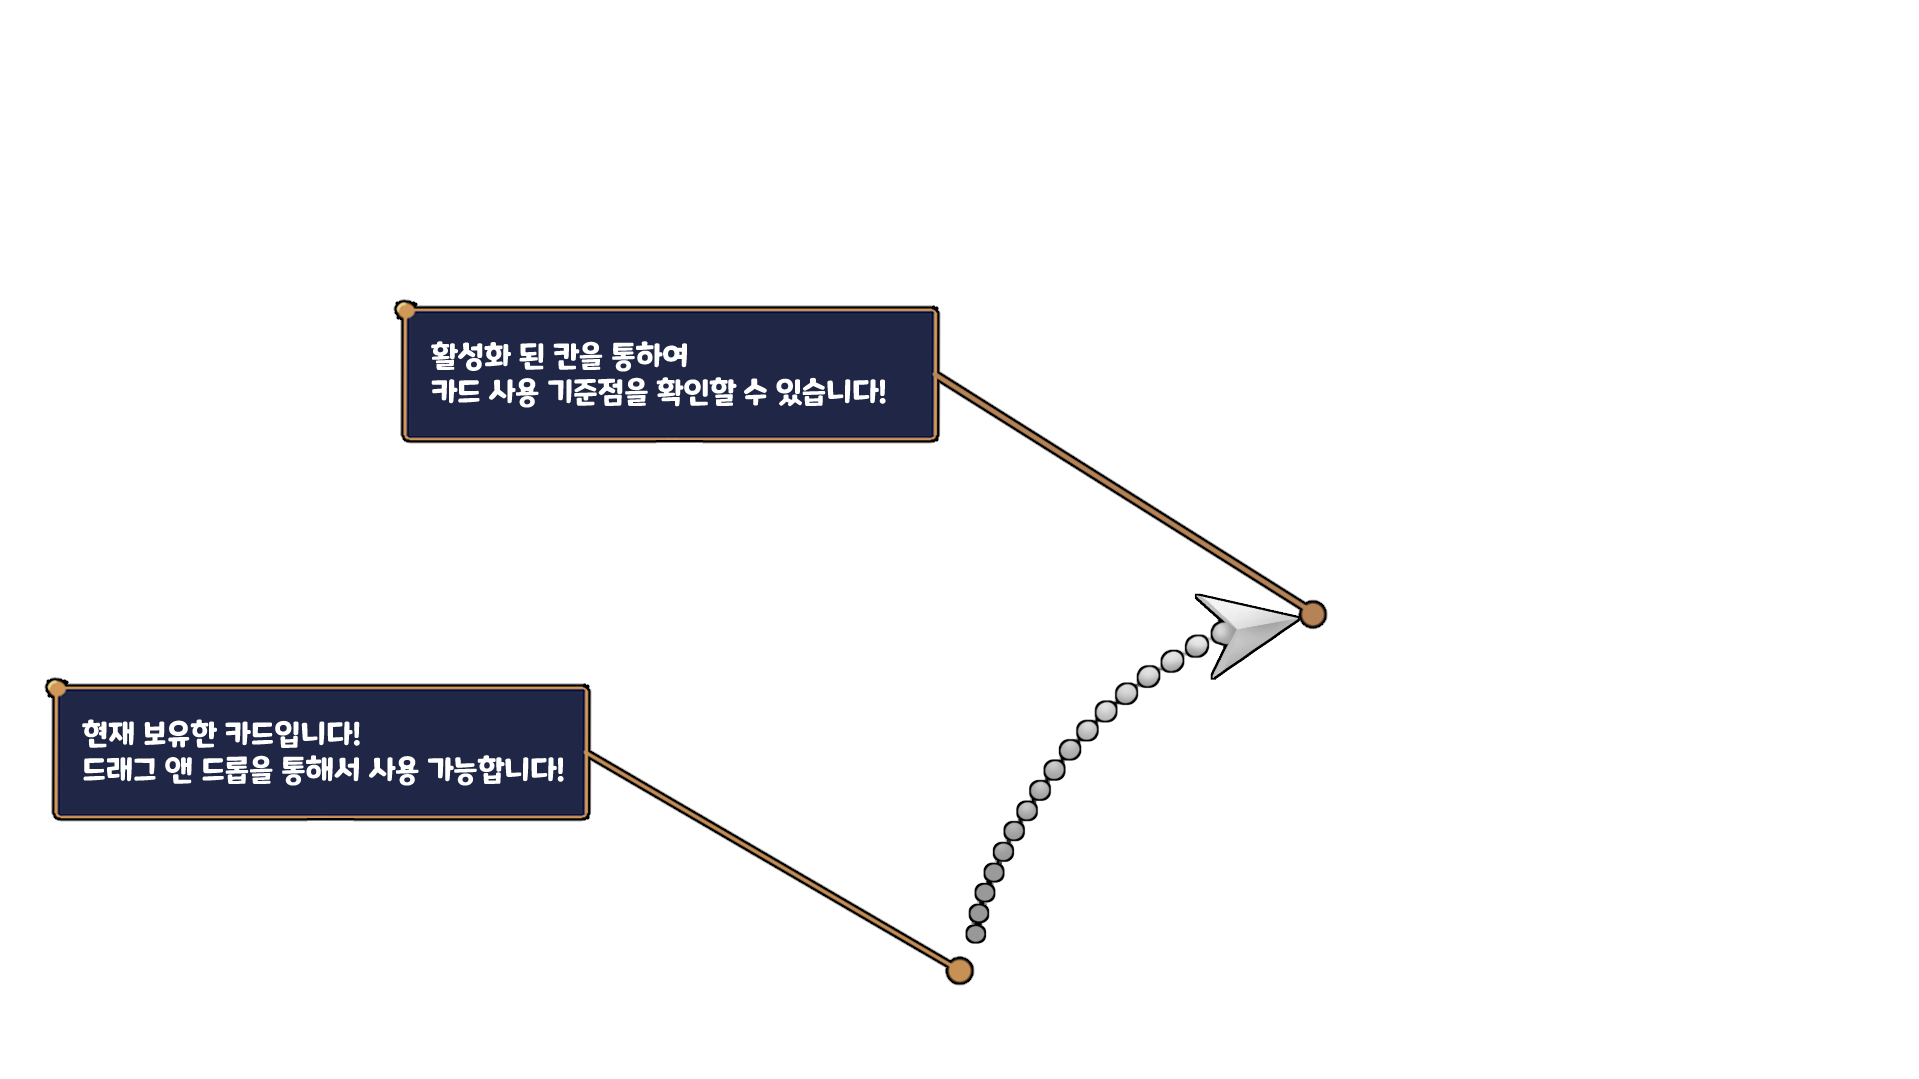
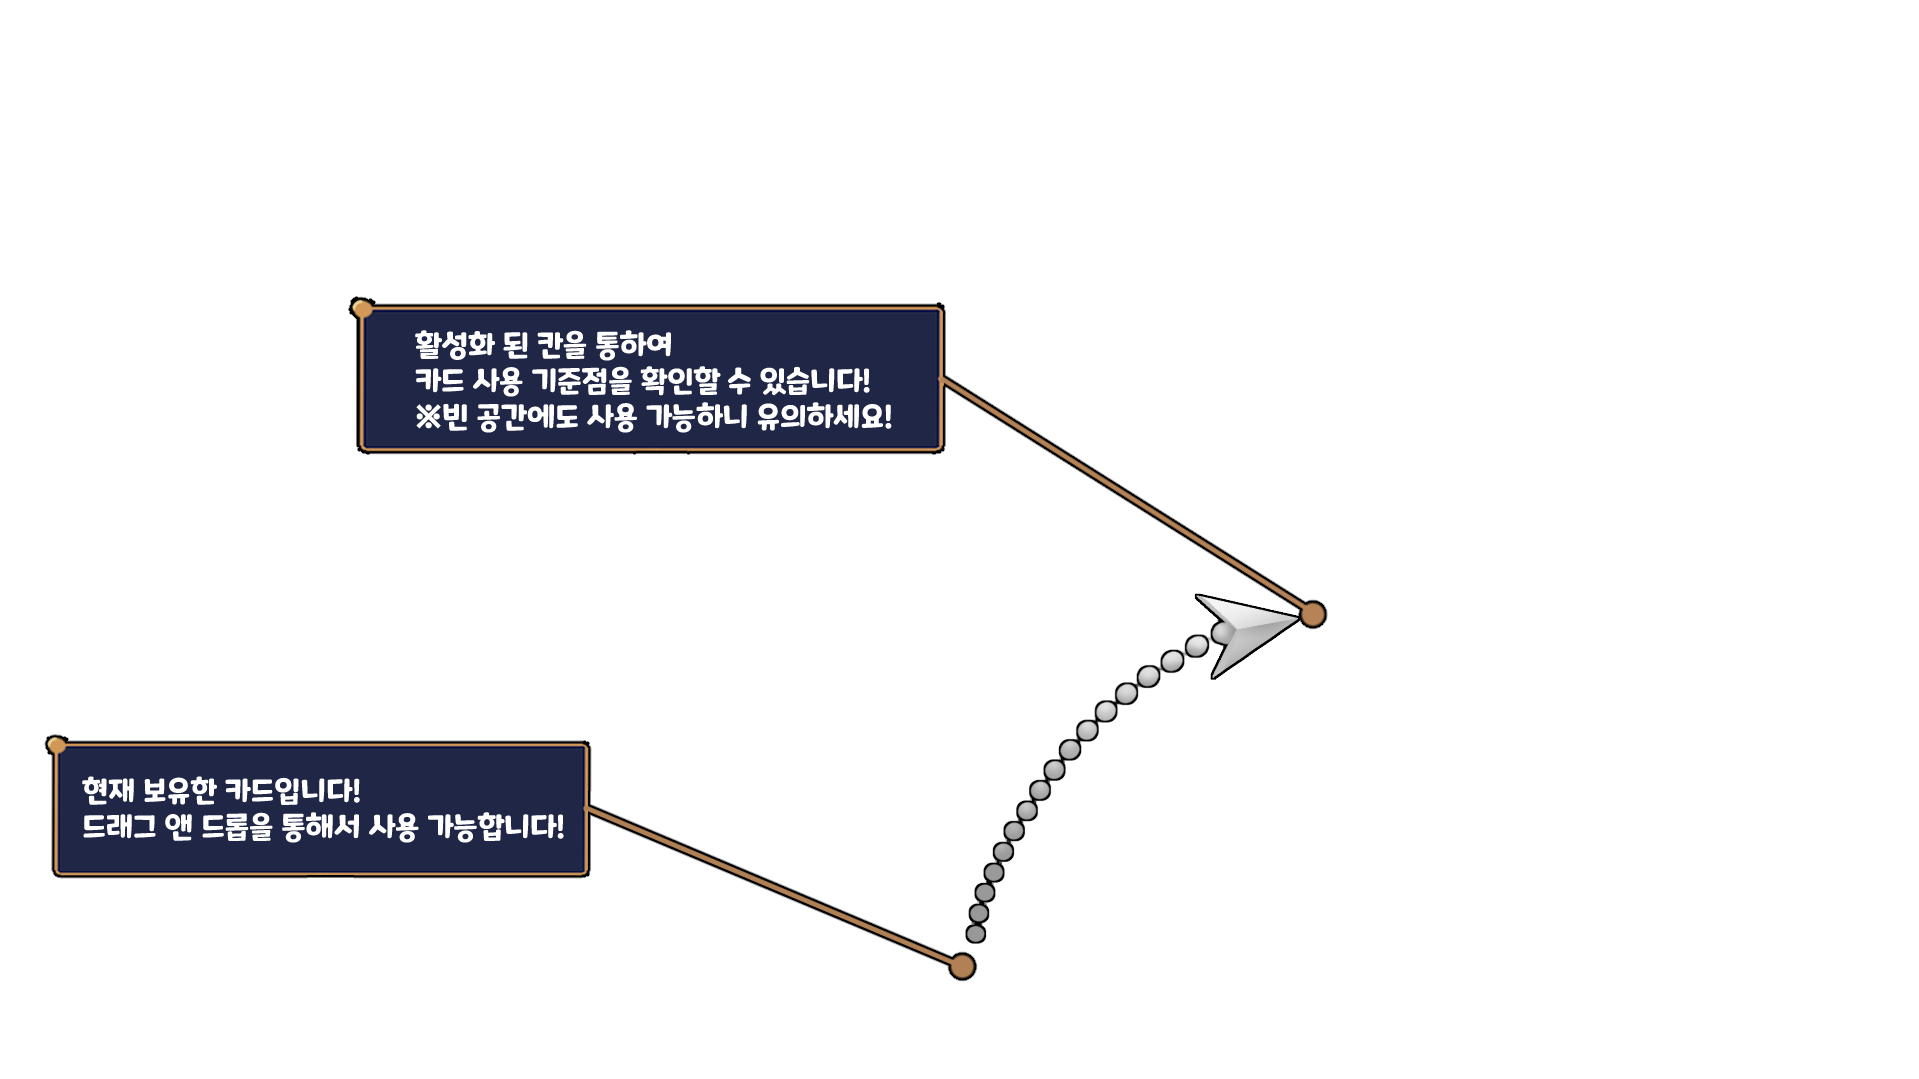
각종 버그 수정
각종 버그 수정
- 연쇄가 정상적으로 동작하지 않던 문제 수정
- 고립이 정상적으로 동작하지 않던 문제 수정
- 캐릭터가 죽을 시 복제되거나 몬스터가 대상을 이상하게 선택하는 문제 수정
- 캐릭터 합류 화면에서 죽은 캐릭터가 보이는 문제 수정
- 몬스터가 앞 뒤로 이동할 경우 크기가 위치에 맞춰 바뀌도록 수정

Changed region(s): [[0.0, 0.6117, 0.4919, 0.8869], [0.1845, 0.2753, 0.4919, 0.4282], [0.4919, 0.8869, 0.5227, 0.9175]]

diff --git a/Assets/Scripts/Systems/HitBox.cs b/Assets/Scripts/Systems/HitBox.cs
@@ -587,16 +587,36 @@ public class HitBox : MonoBehaviour
         else
             pos = additionalEffectStruct.TargetPos;
 
-        if(BattleField.Instance.SearchMonster(pos+3) != null)
+
+        bool upper = false;
+        bool lower = false;
+        bool right = false;
+        bool left = false;
+
+        if (!(pos / 6 >= 1))
+            upper = true;
+        if (!(pos % 3 == 2))
+            right = true;
+        if (!(pos % 3 == 0))
+            left = true;
+        if (!(pos / 3 < 1))
+            lower = true;
+
+        Debug.Log("upper : " + upper);
+        Debug.Log("right : " + right);
+        Debug.Log("left : " + left);
+        Debug.Log("lower : " + lower);
+
+        if ((upper ? BattleField.Instance.SearchMonster(pos + 3) != null : false))
             BattleEffectSystem.Instance.RequestBattleEffect(additionalEffectStruct.effects);
 
-        if (BattleField.Instance.SearchMonster(pos + 1) != null)
+        if ((right ? BattleField.Instance.SearchMonster(pos + 1) != null : false))
             BattleEffectSystem.Instance.RequestBattleEffect(additionalEffectStruct.effects);
 
-        if (BattleField.Instance.SearchMonster(pos - 1) != null)
+        if ((left ? BattleField.Instance.SearchMonster(pos - 1) != null : false))
             BattleEffectSystem.Instance.RequestBattleEffect(additionalEffectStruct.effects);
 
-        if (BattleField.Instance.SearchMonster(pos - 3) != null)
+        if ((lower ? BattleField.Instance.SearchMonster(pos - 3) != null : false))
             BattleEffectSystem.Instance.RequestBattleEffect(additionalEffectStruct.effects);
     }
 
@@ -608,11 +628,28 @@ public class HitBox : MonoBehaviour
         else
             pos = additionalEffectStruct.TargetPos;
 
-        if (BattleField.Instance.SearchMonster(pos + 3) == null
-            && BattleField.Instance.SearchMonster(pos + 1) == null
-            && BattleField.Instance.SearchMonster(pos - 1) == null
-            && BattleField.Instance.SearchMonster(pos - 3) == null)
+        bool upper = false;
+        bool lower = false;
+        bool right = false;
+        bool left = false;
+
+        if (!(pos / 6 >= 1))
+            upper = true;
+        if (!(pos % 3 == 2))
+            right = true;
+        if (!(pos % 3 == 0))
+            left = true;
+        if (!(pos / 3 < 1))
+            lower = true;
+
+        if ((upper ? BattleField.Instance.SearchMonster(pos + 3) == null : true)
+            && (right ? BattleField.Instance.SearchMonster(pos + 1) == null : true)
+            && (left ? BattleField.Instance.SearchMonster(pos - 1) == null : true)
+            && (lower ? BattleField.Instance.SearchMonster(pos - 3) == null : true))
+        {
             BattleEffectSystem.Instance.RequestBattleEffect(additionalEffectStruct.effects);
+        }
+            
     }
 
     public void CheckCooperation(AdditionalEffectStruct additionalEffectStruct)

diff --git a/Assets/Scripts/Systems/UI/SelectUI.cs b/Assets/Scripts/Systems/UI/SelectUI.cs
@@ -8,6 +8,9 @@ public class SelectUI : MonoBehaviour
 {
 
     public List<Sprite> sprites;
+
+    public Sprite basicSprite;
+
     // Start is called before the first frame update
     void Start()
     {
@@ -23,15 +26,23 @@ public class SelectUI : MonoBehaviour
     public void UpdateUI()
     {
         //Debug.Log("characters num : " + PlayerData.Instance.characters.Count);
-        int i = 0;
-        foreach (var character in PlayerData.Instance.characters)
+
+        //int i = 0;
+        //foreach (var character in PlayerData.Instance.characters)
+
+        for (int i = 0; i < PlayerData.Instance.characters.Count; i++) 
         {
             transform.GetChild(i + 1).GetComponent<Image>().sprite = PlayerData.Instance.characters[i].image;
 
             //Debug.Log("child" + i + " : ");
             //sprites.Add(PlayerData.Instance.characters[i].image);
 
-            i++;
+            //i++;
+        }
+
+        for (int i = PlayerData.Instance.characters.Count; i < 4; i++)
+        {
+            transform.GetChild(i + 1).GetComponent<Image>().sprite = basicSprite;
         }
 
         transform.GetChild(6).GetComponent<Image>().sprite = GachaSystem.Instance.tempMember.image;

diff --git a/Assets/Scripts/Systems/UI/MonsterUI.cs b/Assets/Scripts/Systems/UI/MonsterUI.cs
@@ -61,6 +61,19 @@ public class MonsterUI : MonoBehaviour
     public void UpdateUI()
     {
         transform.position = BattleField.Instance.GetPos(myMonster.Pos);
+
+        float correction = 1;
+        if (myMonster.Pos / 3 >= 1)
+            correction -= 0.225f;
+        if (myMonster.Pos / 3 >= 2)
+            correction -= 0.175f;
+
+        var prevScale = transform.GetChild(0).localScale;
+        transform.GetChild(0).localScale = myMonster.GetScale() * correction;
+
+        transform.GetChild(0).Translate(new Vector3(0, -prevScale.y / 2, 0));
+        transform.GetChild(0).Translate(new Vector3(0, transform.GetChild(0).localScale.y / 2, 0));
+
         slider.value = myMonster.NowHp / myMonster.MaxHp;
         textUGUI.text = "" + myMonster.NowHp + " / " + myMonster.MaxHp;
     }

diff --git a/Assets/Scripts/Maps/ver.0.1/BattleMaps/BattleMap001.cs b/Assets/Scripts/Maps/ver.0.1/BattleMaps/BattleMap001.cs
@@ -20,9 +20,13 @@ namespace GWMapVer_0_1
                     new MonsterIPC_EliteA("MonsterD", 20, 3),
                     new MonsterIPC_EliteA("MonsterD", 20, 6),
 
+                    new MonsterIPC_EliteA("MonsterC", 20, 1),
+                    new MonsterIPC_EliteA("MonsterC", 20, 4),
+                    new MonsterIPC_EliteA("MonsterC", 20, 7),
+
                     new MonsterIPC_EliteA("MonsterC", 20, 2),
                     new MonsterIPC_EliteA("MonsterC", 20, 5),
-                    new MonsterIPC_EliteA("MonsterC", 20, 8),
+                    new MonsterIPC_EliteA("MonsterC", 20, 8)
                 };
         }
 

diff --git a/Assets/Scripts/Systems/UI/PartyUI.cs b/Assets/Scripts/Systems/UI/PartyUI.cs
@@ -71,10 +71,15 @@ public class PartyUI : MonoBehaviour
 
     public void EndUI()
     {
+        Debug.Log("EndUI");
+        //for (int i = 0; i < partySystem.characters.Count; i++)
+        for (int i = 0; i < characterUIs.Count; i++)
+        {
+            //characterUIs[i].Initialize();
+            characterUIs[i].gameObject.SetActive(false);
+        }
         partySystem.Initialize();
 
-        for (int i = 0; i < partySystem.characters.Count; i++)
-            characterUIs[i].gameObject.SetActive(false);
     }
 
     public void UpdateUI()

diff --git a/Assets/Scripts/Systems/BattleField.cs b/Assets/Scripts/Systems/BattleField.cs
@@ -499,7 +499,6 @@ public class BattleField : MonoBehaviour, ITurn
         Vector3 temp;
         int index = 0;
         index = monsters.FindIndex(monster => monster.Pos == pos);
-        Debug.Log("get monsterPos : index : " + index);
         temp = battleFieldCamera.WorldToScreenPoint(goMonsters[index].transform.position);
         //Camera.main.WorldToScreenPoint(goMonsters[index].transform.position);
 

diff --git a/Assets/Scripts/Maps/ver.0.1/BattleMaps/BattleMapIPC_Elite_001.cs b/Assets/Scripts/Maps/ver.0.1/BattleMaps/BattleMapIPC_Elite_001.cs
@@ -17,7 +17,7 @@ namespace GWMapVer_0_1
         {
             monsters = new List<Monster>()
                 {
-                    new MonsterIPC_EliteA("MonsterIPC_EliteA", 70, 0)
+                    new MonsterIPC_EliteA("MonsterIPC_EliteA", 70, 4)
                 };
         }
 

diff --git a/Assets/Scripts/Systems/PlayerData.cs b/Assets/Scripts/Systems/PlayerData.cs
@@ -133,6 +133,6 @@ public class PlayerData : MonoBehaviour
     {
         RemoveAllCharacter();
         foreach (var copy in copys)
-            characters.Add(copy.DeepCopy() as PartyMember);
+            AddCharacter(copy.DeepCopy() as PartyMember);
     }
 }

diff --git a/Assets/Scripts/Systems/PartySystem.cs b/Assets/Scripts/Systems/PartySystem.cs
@@ -183,6 +183,7 @@ public class PartySystem : MonoBehaviour, ITurn
 
     public void Initialize()
     {
-        characters.RemoveRange(0, characters.Count);
+        characters.Clear();
+        //characters.RemoveRange(0, characters.Count);
     }
 }
